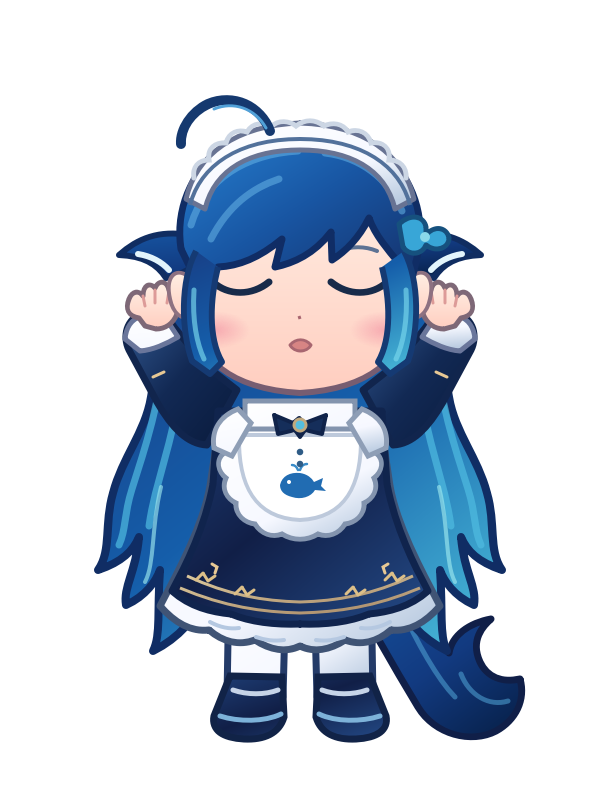
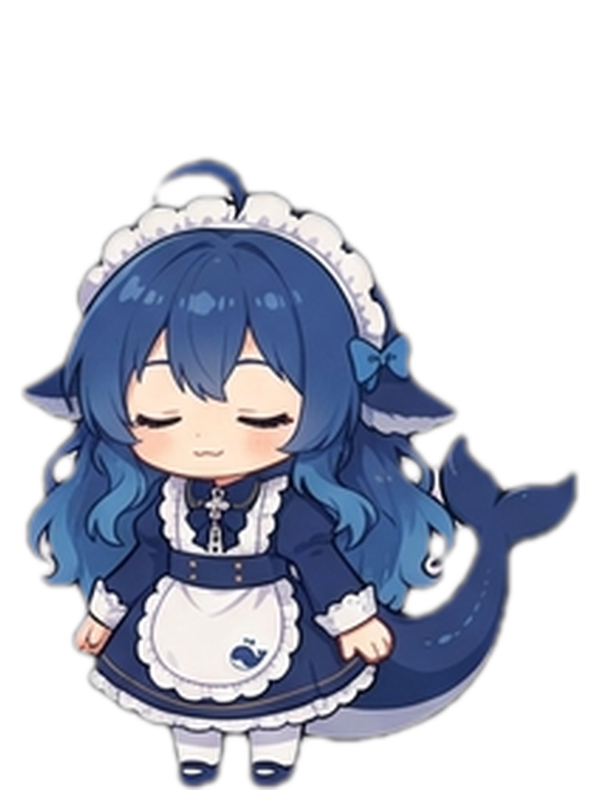
Use whale-girl illustration artwork for the desktop pet

diff --git a/README.md b/README.md
@@ -29,7 +29,7 @@
 
 窗口以较紧凑的尺寸出现在桌面右侧；屏幕空间不足时，页面和设置窗口可以滚动。未保存班表时切换置顶和拖动位置仅在本次运行中生效，之后保存班表会一并保存这些选择。
 
-内置形象是根据蓝发、女仆装和鲸尾的参考造型重绘的简化角色，并非 DeepSeek 官方发布的形象，也不是参考图原图。
+内置形象采用鲸鱼娘插画素材，来源为 [vlln/whale-girl](https://github.com/vlln/whale-girl)（仓库标注 MIT；角色形象由 [ZipZipPipe](https://space.bilibili.com/4168597) 创作，项目在 README 中致谢）。这不是 DeepSeek 官方形象。素材经裁切、等比缩放和透明边缘处理，仅保留待机、眨眼和疲惫三种表情，未使用原项目的动画资源；发布或商用前请同时核实角色设定与原作者的授权范围。
 
 今日投入显示四位小数，月度汇总和工单显示两位小数；金额达到日计划上限后停止增加。能量条按活跃工时进度由青蓝变为橙红，加班时满格；暂停或键鼠空闲时变暗并停止流动。内置小鲸在接近计划工时时眨眼更频繁，加班时显示疲惫表情。
 
@@ -64,7 +64,7 @@
 - 使用系统自带的 `mshta.exe` 打开，无需单独安装应用或手动构建；请保持 `DesktopPet.cs` 和 `assets` 文件夹与 HTA 放在一起。
 - 桌宠通过 Windows PowerShell 和系统 .NET 在本机启动透明窗口；首次加载需要短暂编译组件。工时采样使用 `GetLastInputInfo`，卡片置顶使用 `SetWindowPos`。桌宠与卡片只通过临时文件交换状态和操作，不交换薪资或金额。
 - 如果 PowerShell、HTA、.NET 动态编译或系统策略阻止桌宠启动，卡片会保留并显示「重试桌宠」；采样失败时**不会按经过时间冒算工时**。所有操作均不联网、不上传，也不记录输入内容。
-- 桌宠形象是参考图的重绘版本；如计划传播或商用，请确认所用形象的原作者和授权。
+- 桌宠形象来自第三方开源项目的鲸鱼娘插画（仓库标注 MIT），角色原设定作者为 ZipZipPipe；本项目对素材做了裁切和缩放，详见 `assets/character-design.md`。如计划传播或商用，请先核实角色与素材的授权。
 
 数据保存在 HTA 所在目录，因此该目录需要写入权限：
 

diff --git a/assets/character-design.md b/assets/character-design.md
@@ -9,3 +9,10 @@
 构图把视觉重量集中在有表现力的中心，周围保留可以呼吸的透明空间。文字只承担必要的识别作用，不与图形争夺注意力；形态本身负责传达情绪，精确的间距与收边体现经验丰富的工艺。
 
 最终作品应安静、可靠而有生命力：既像可被信任的日常器物，又保留一点对未知的好奇。每个转折、反光和比例都需达到细致、干净、耐看的完成度，呈现经过耐心雕琢的专业品质。
+
+## 素材来源与修改
+
+- 上游：[vlln/whale-girl](https://github.com/vlln/whale-girl)，素材路径 `lib/assets/characters/whale-girl/{idle,disappointed}.png`；仓库标注 MIT License。
+- 角色：鲸鱼娘，原形象由 [ZipZipPipe](https://space.bilibili.com/4168597) 创作；上游 README 的致谢同时列出该角色。
+- 本项目修改：从 `idle` 和 `disappointed` 动画帧中取出待机、眨眼和疲惫三帧，使用相同的裁切边界对齐，等比缩放到桌面尺寸，并保留透明通道；没有纳入上游的动画播放器或其他角色资源。
+- 注意：上游代码许可以及角色原设定的适用条件可能不同；公开传播或商用前，请向相应权利人确认。
